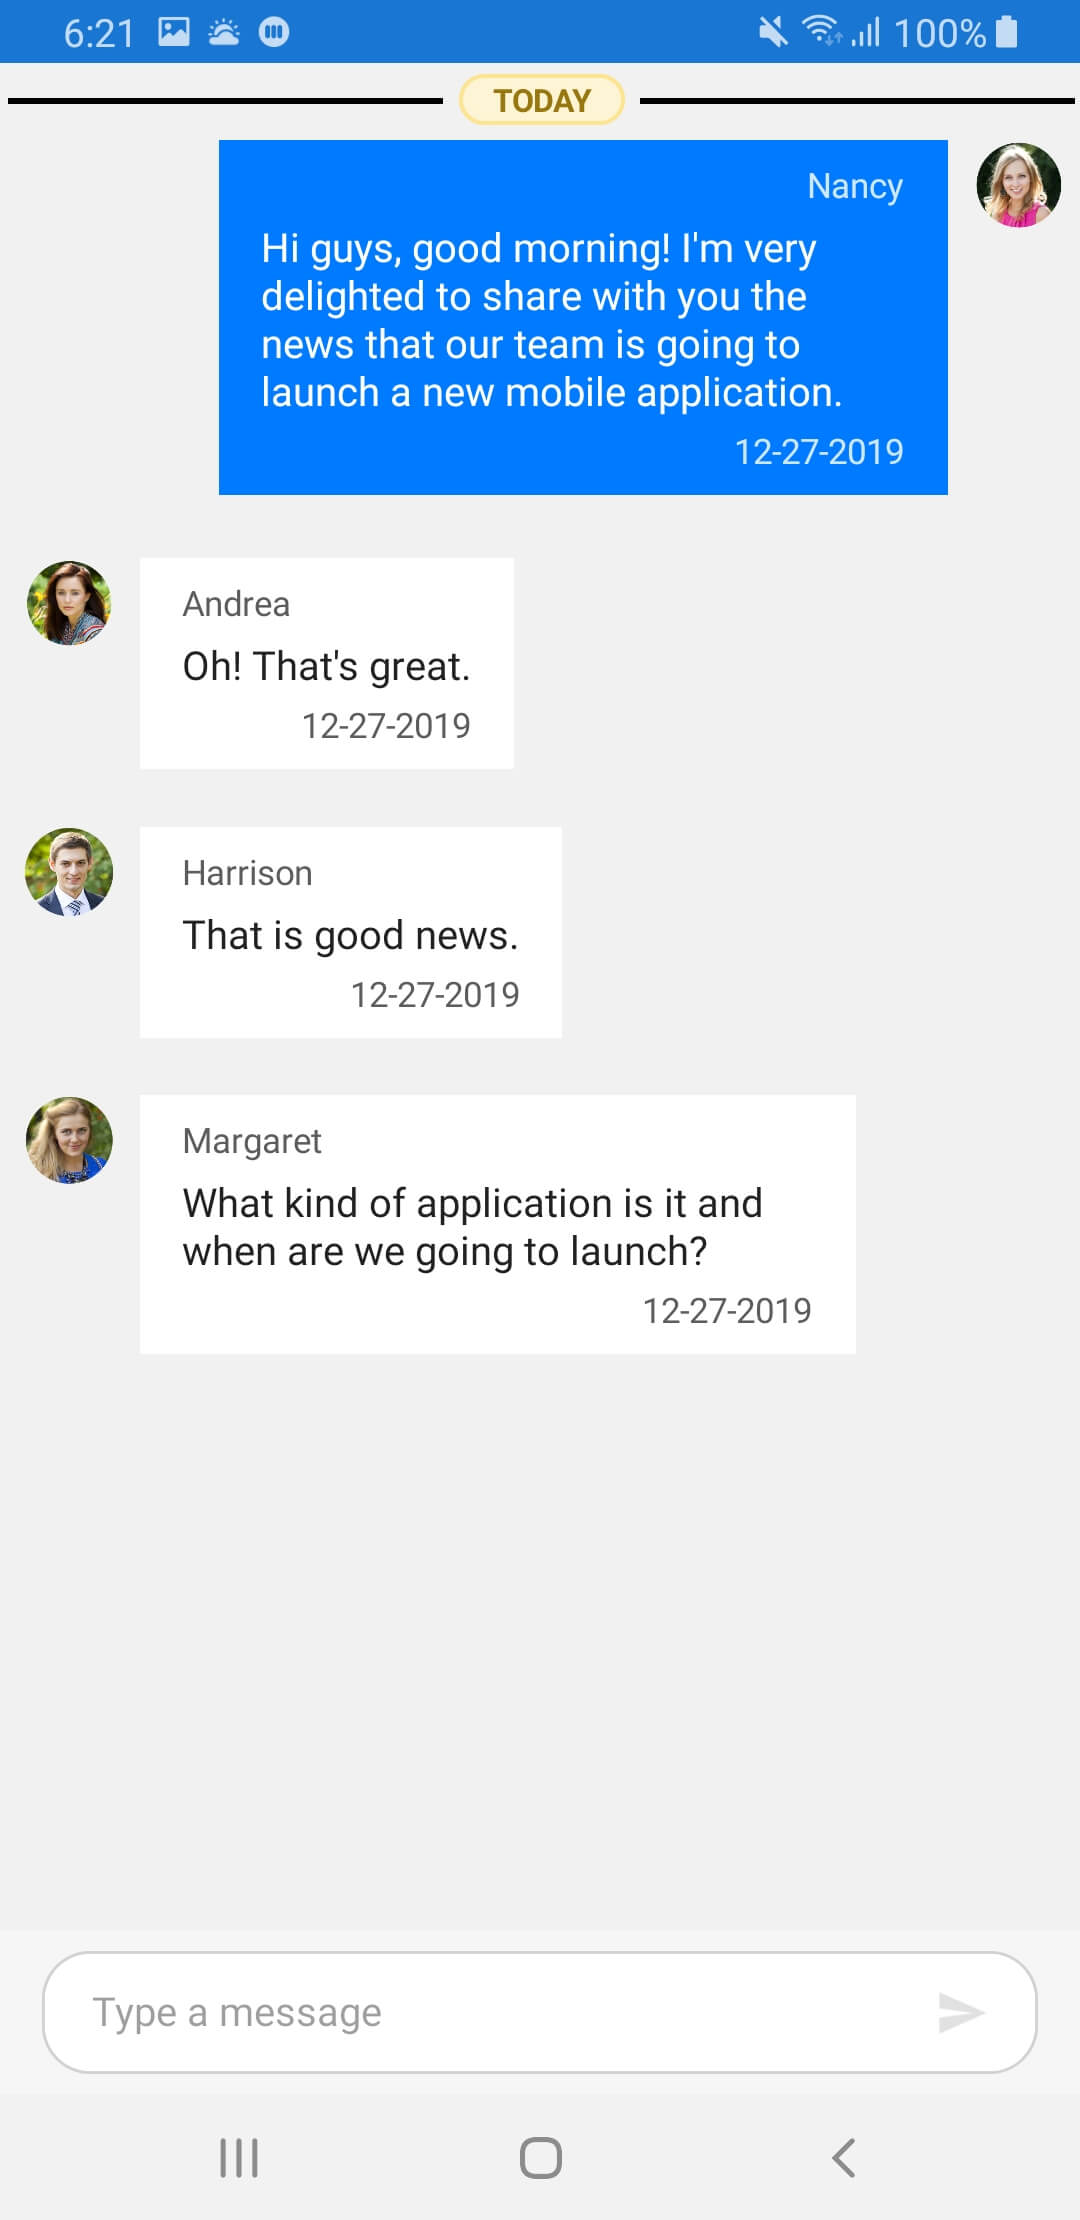
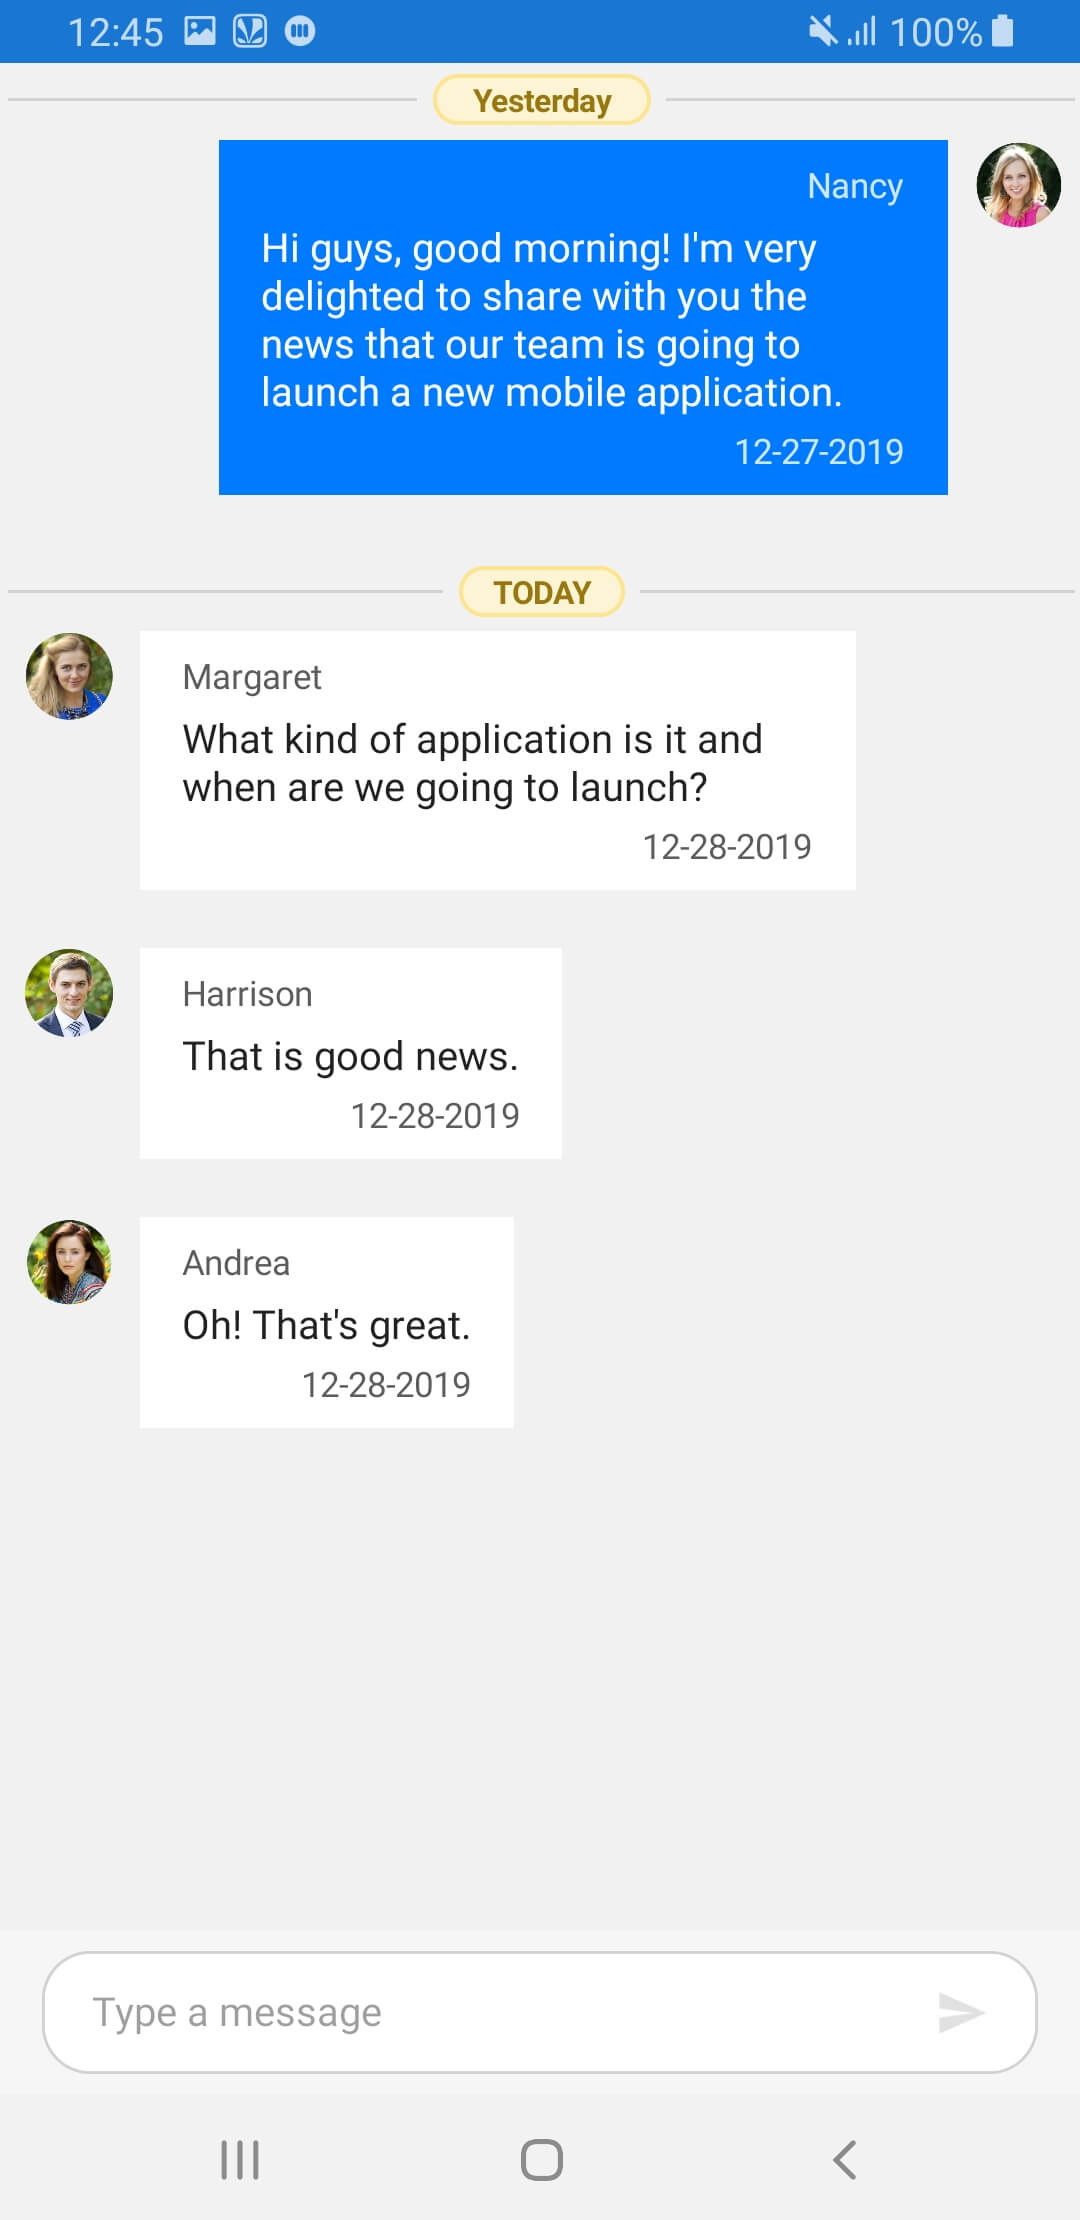
Time break.md is modified to show yesterday.

diff --git a/Xamarin/Chat/Time break.md b/Xamarin/Chat/Time break.md
@@ -62,7 +62,6 @@ namespace GettingStarted
 
 To stick the time break view, enable the property [SfChat.StickyTimeBreak](https://help.syncfusion.com/cr/xamarin/Syncfusion.SfChat.XForms~Syncfusion.XForms.Chat.SfChat~StickyTimeBreak.html). If `StickyTimeBreak` is true, the corresponding time break view will be displayed until the previous time break view goes out of view, and time break will move when another time break comes in while scrolling.
 
-
 {% tabs %}
 {% highlight xaml %}
 <?xml version="1.0" encoding="utf-8" ?>
@@ -108,6 +107,107 @@ namespace GettingStarted
             this.sfChat.StickyTimeBreak = true;
             this.Content = sfChat;
         }
+    }
+}
+
+public class GettingStartedViewModel : INotifyPropertyChanged
+{
+    /// <summary>
+    /// Collection of messages or conversation.
+    /// </summary>
+    private ObservableCollection<object> messages;
+
+    /// <summary>
+    /// current user of chat.
+    /// </summary>
+    private Author currentUser;
+
+    public GettingStartedViewModel()
+    {
+        this.messages = new ObservableCollection<object>();
+        this.currentUser = new Author() { Name = "Nancy", Avatar = "People_Circle16.png" };
+        this.GenerateMessages();
+    }
+
+    /// <summary>
+    /// Gets or sets the message conversation.
+    /// </summary>
+    public ObservableCollection<object> Messages
+    {
+        get
+        {
+            return this.messages;
+        }
+
+        set
+        {
+            this.messages = value;
+        }
+    }
+
+    /// <summary>
+    /// Gets or sets the current user.
+    /// </summary>
+    public Author CurrentUser
+    {
+        get
+        {
+        return this.currentUser;
+        }
+        set
+        {
+            this.currentUser = value;
+            RaisePropertyChanged("CurrentUser");
+        }
+    }
+
+    /// <summary>
+    /// Property changed handler.
+    /// </summary>
+    public event PropertyChangedEventHandler PropertyChanged;
+
+    /// <summary>
+    /// Occurs when property is changed.
+    /// </summary>
+    /// <param name="propName">changed property name</param>
+    public void RaisePropertyChanged(string propName)
+    {
+        if (this.PropertyChanged != null)
+        {
+            this.PropertyChanged(this, new PropertyChangedEventArgs(propName));
+        }
+    }
+
+    private void GenerateMessages()
+    {
+        this.Messages.Add(new TextMessage()
+        {
+            Author = CurrentUser,
+            Text = "Hi guys, good morning! I'm very delighted to share with you the news that our team is going to launch a new mobile application.",
+            ShowAvatar = true,
+            DateTime = new DateTime(DateTime.Now.Year, DateTime.Now.Month, DateTime.Now.Day - 1),
+        });
+
+        this.Messages.Add(new TextMessage()
+        {
+            Author = new Author() { Name = "Andrea", Avatar = "People_Circle2.png" },
+            Text = "Oh! That's great.",
+            ShowAvatar = true,
+        });
+
+        this.Messages.Add(new TextMessage()
+        {
+            Author = new Author() { Name = "Harrison", Avatar = "People_Circle14.png" },
+            Text = "That is good news.",
+            ShowAvatar = true,
+        });
+
+        this.Messages.Add(new TextMessage()
+        {
+            Author = new Author() { Name = "Margaret", Avatar = "People_Circle7.png" },
+            Text = "What kind of application is it and when are we going to launch?",
+            ShowAvatar = true,
+        });
     }
 }
 
@@ -227,6 +327,16 @@ internal class TimeBreakTemplateSelector : DataTemplateSelector
         {
             label.WidthRequest = 60;
             label.Text = "TODAY";
+            grid.Children.Add(border, 1, 0);
+            return new DataTemplate(() =>
+            {
+                return grid;
+            });
+        }
+        else if (groupedDate.Date == new DateTime(DateTime.Now.Year, DateTime.Now.Month, DateTime.Now.Day - 1))
+        {
+            label.WidthRequest = 80;
+            label.Text = "Yesterday";
             grid.Children.Add(border, 1, 0);
             return new DataTemplate(() =>
             {
